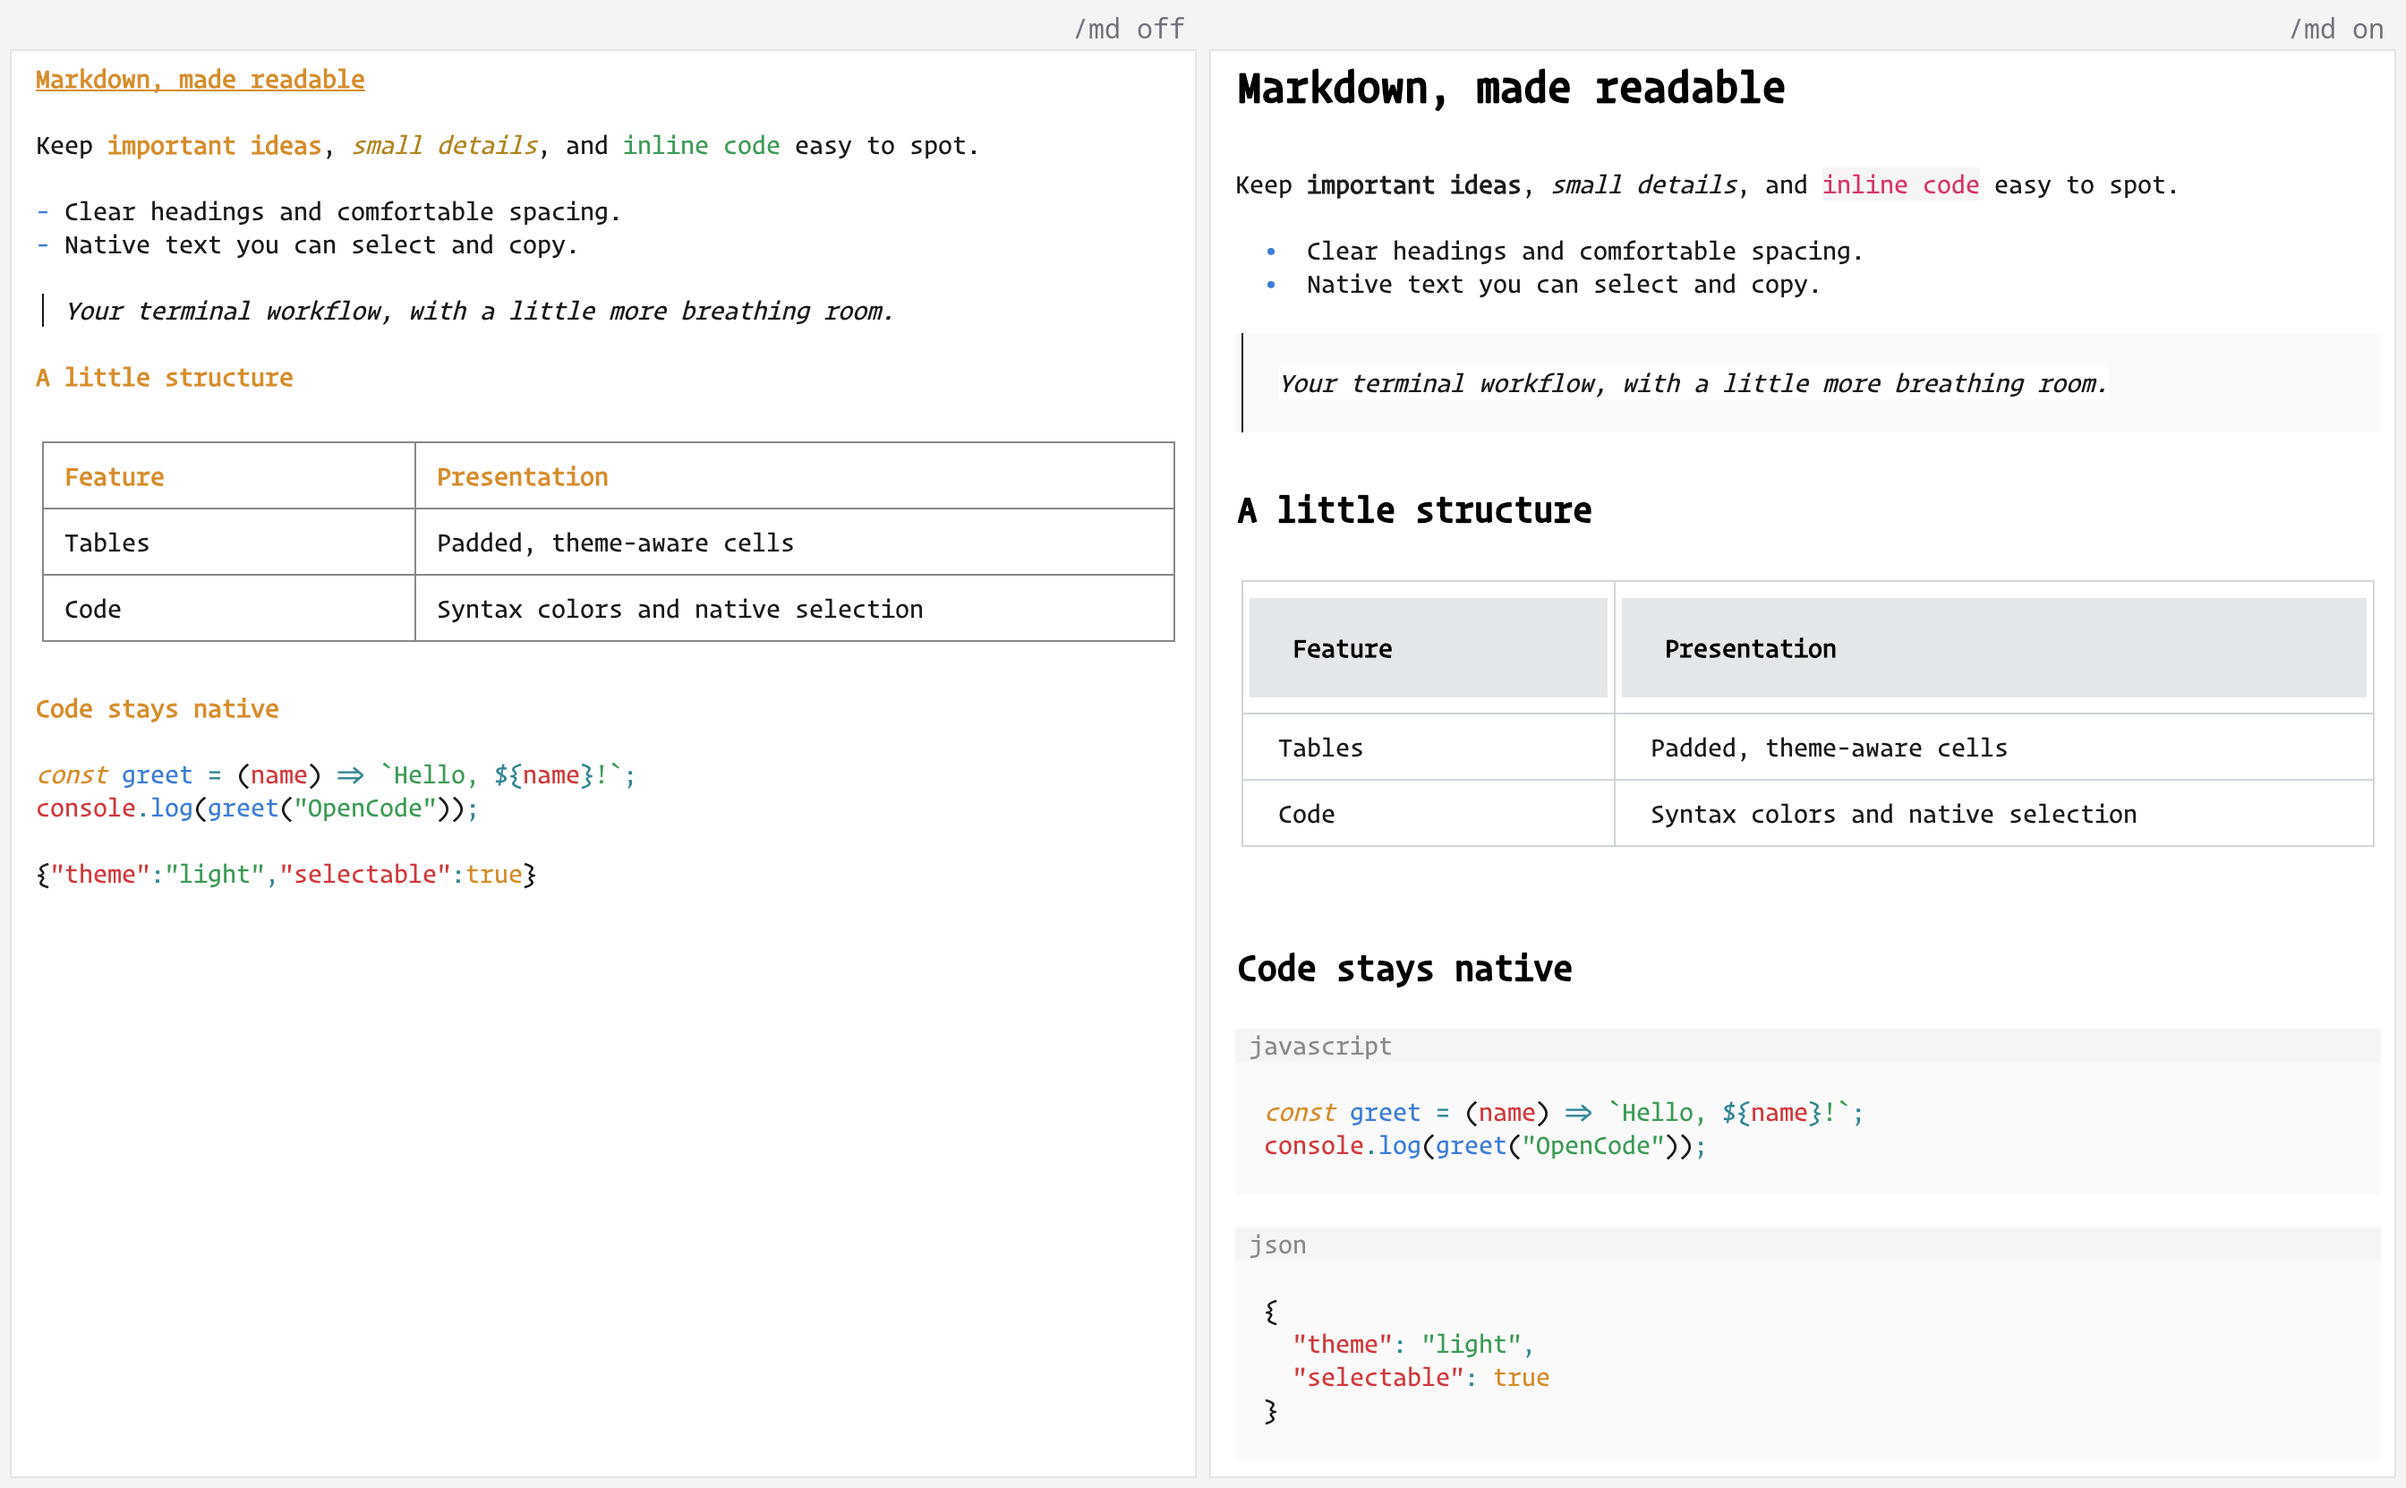
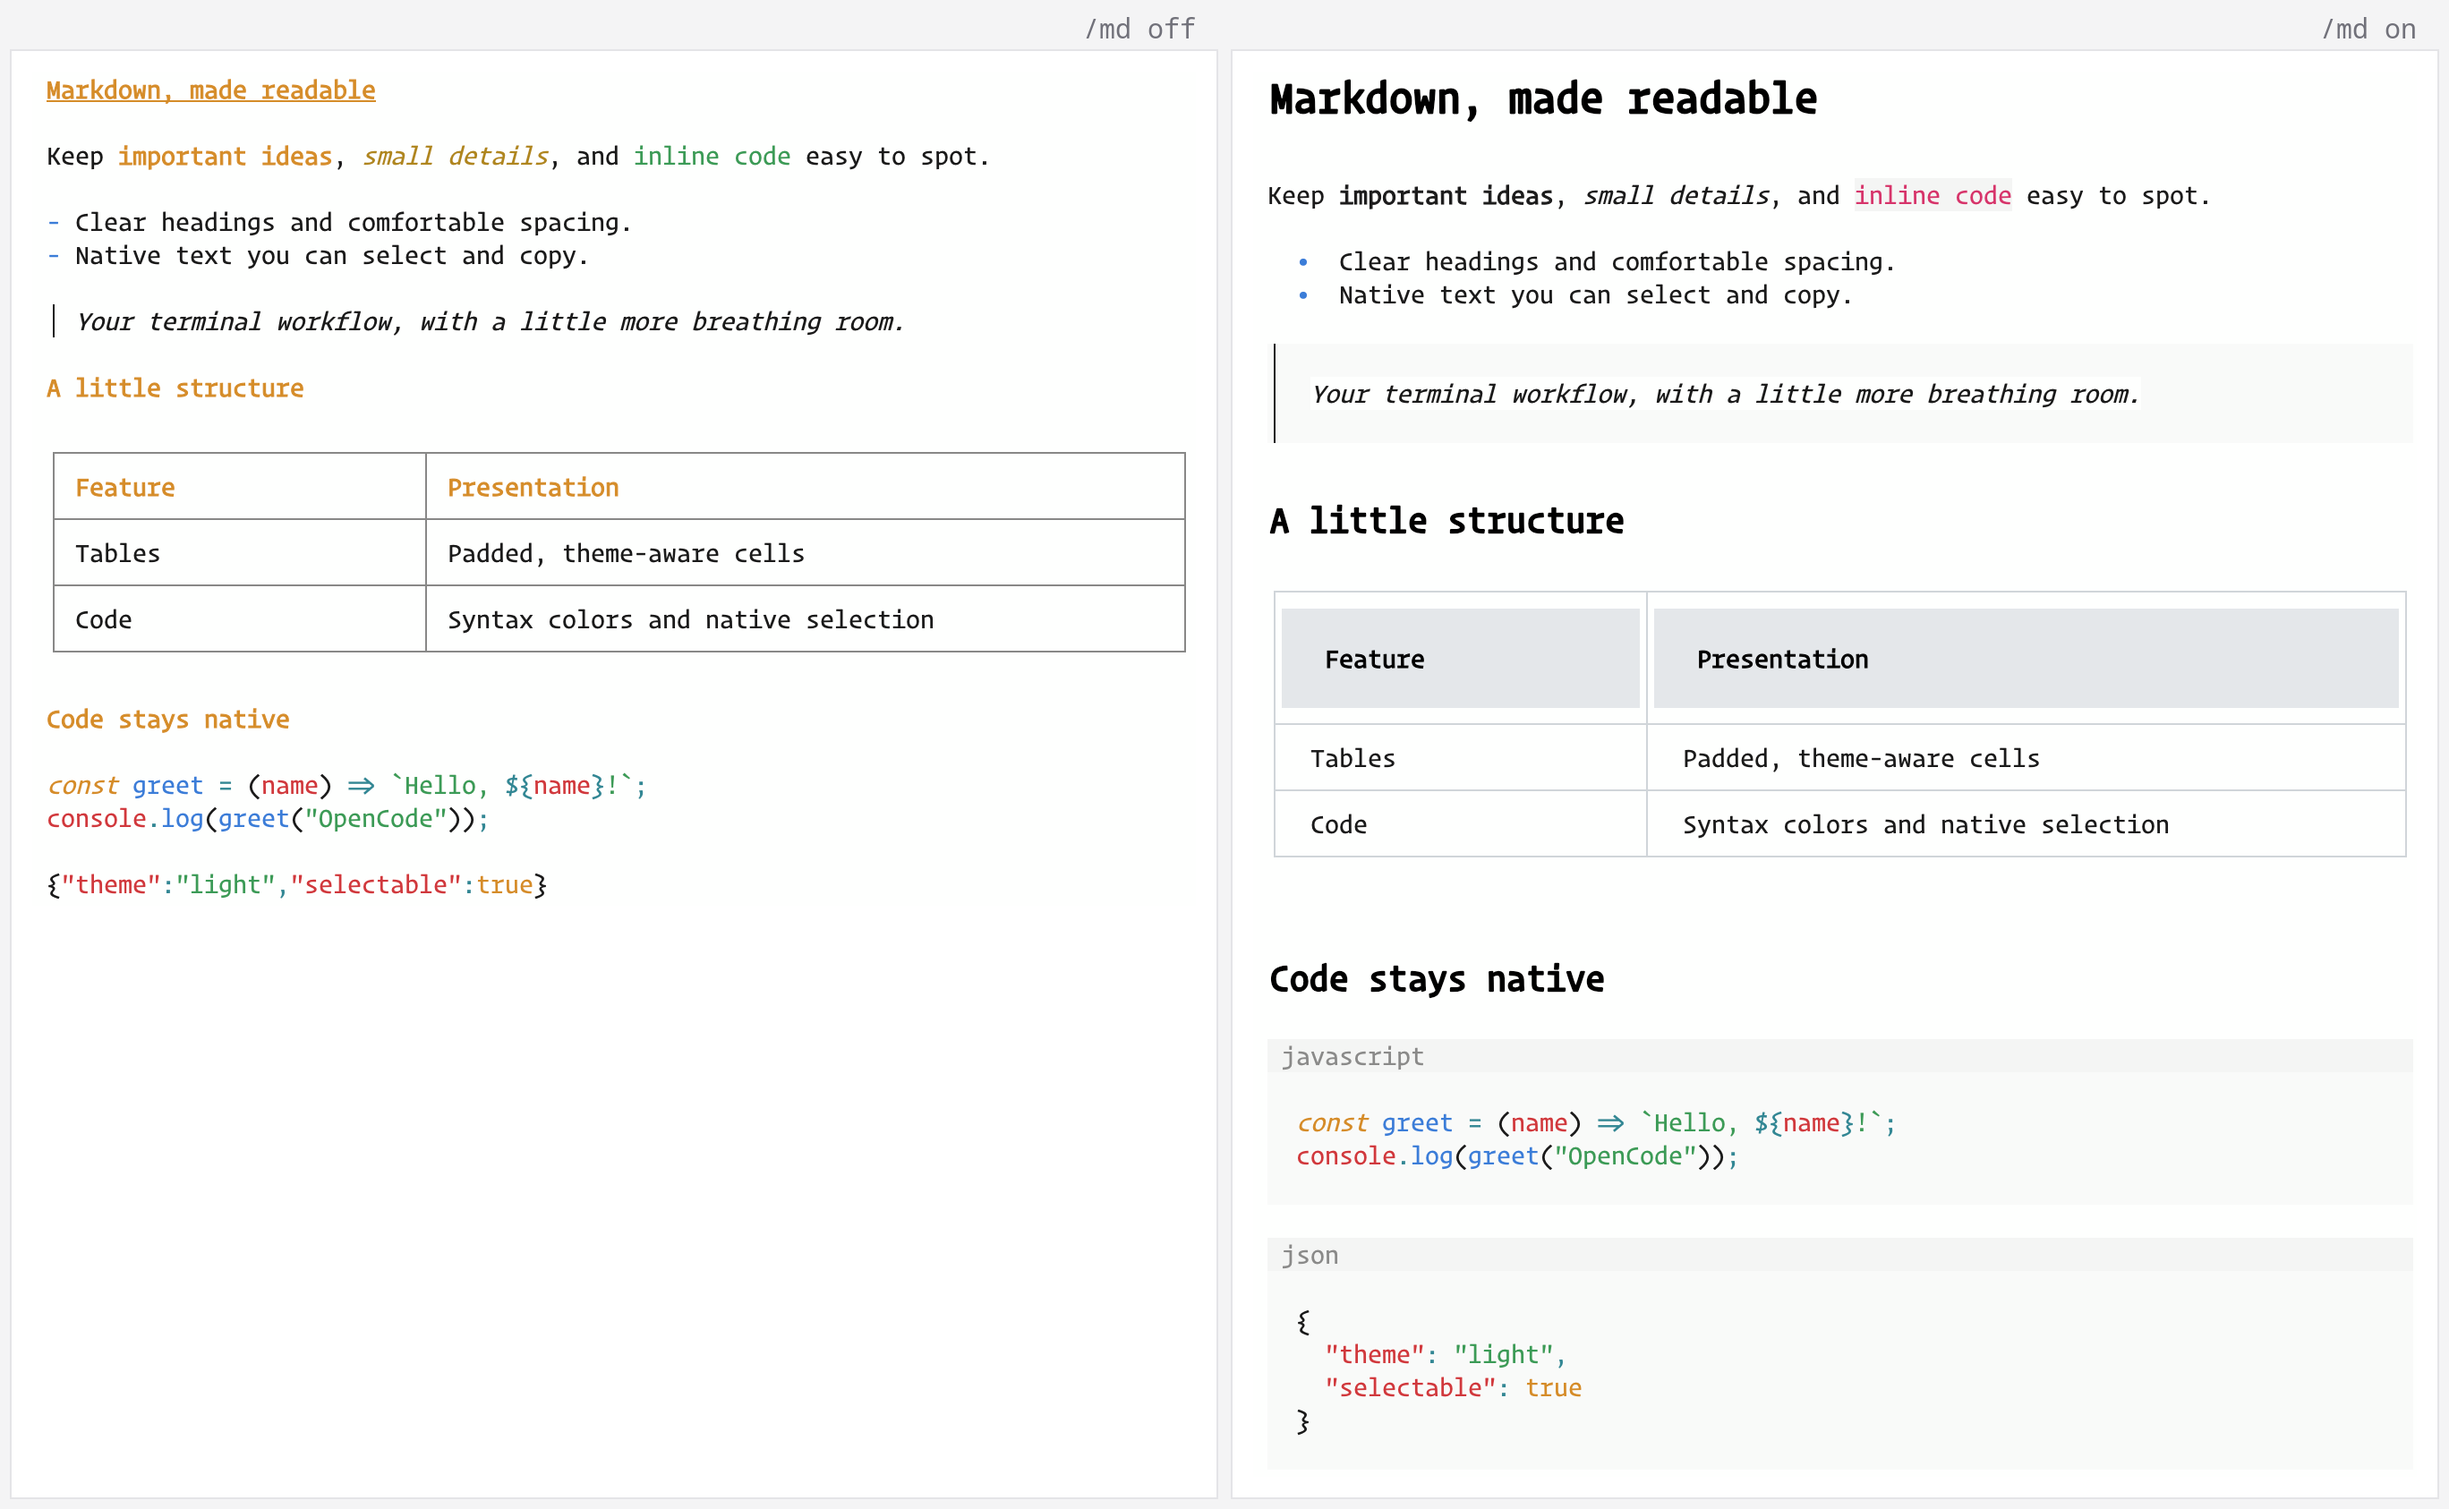
Restore the screenshot white panel padding

diff --git a/README.md b/README.md
@@ -8,7 +8,7 @@ code blocks, formatted JSON, and enlarged headings, controlled by one on/off swi
 Enlarged headings use small cached PNGs, drawn with Skia through `@napi-rs/canvas`.
 All styling runs inside OpenCode's existing terminal transcript.
 
-[![Before and after enabling md: enlarged headings, rose inline code, padded tables, styled blockquotes, labelled code panels, and formatted JSON.](https://raw.githubusercontent.com/MErkinSag/opencode-md/main/docs/images/before-after.png?v=036f22a)](docs/images/before-after.png)
+[![Before and after enabling md: enlarged headings, rose inline code, padded tables, styled blockquotes, labelled code panels, and formatted JSON.](https://raw.githubusercontent.com/MErkinSag/opencode-md/main/docs/images/before-after.png?v=b0aa52256bd8)](docs/images/before-after.png)
 
 ## Install
 
